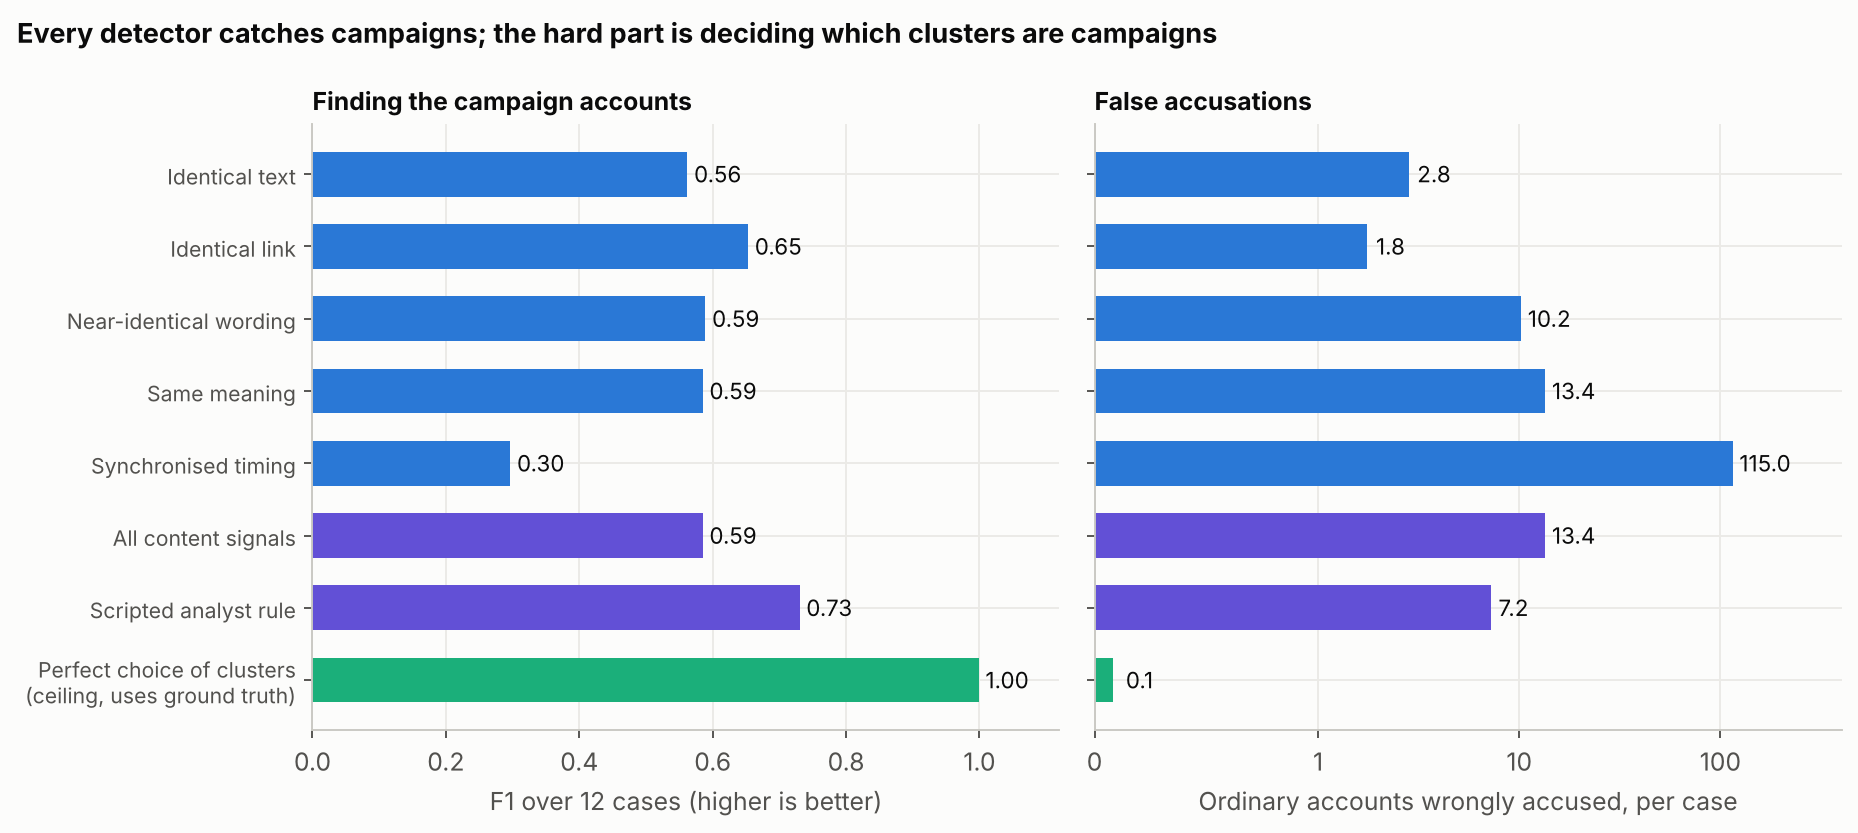
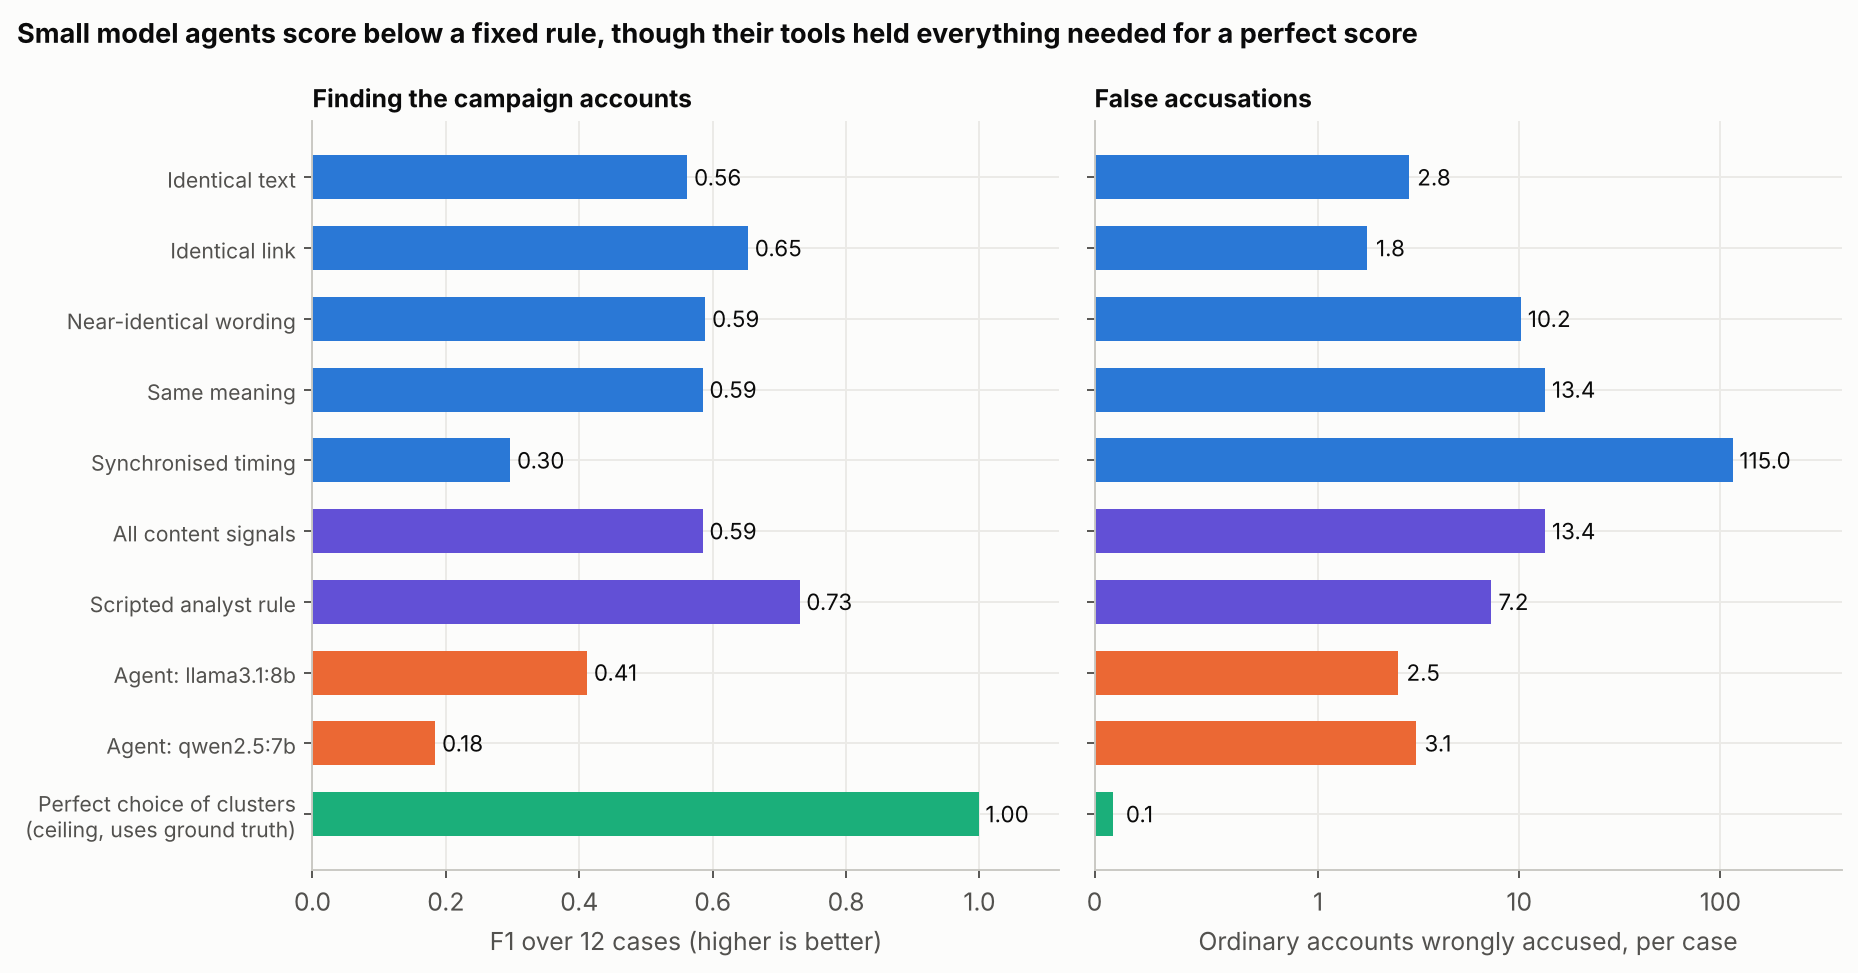
Agent results for two open models and failure-mode analysis

diff --git a/src/failure_modes.py b/src/failure_modes.py
@@ -1,0 +1,43 @@
+"""How the agents went wrong: reads results/agent_*.csv and results/trace_*.jsonl."""
+import os, glob, json
+import pandas as pd
+from config import RES
+
+
+def signals_consulted(trace):
+    out = set()
+    for t in trace:
+        s = (t.get("args") or {}).get("signal") if isinstance(t.get("args"), dict) else None
+        if s:
+            out.add(s)
+    return out
+
+
+def main():
+    rows = []
+    for f in sorted(glob.glob(os.path.join(RES, "agent_*.csv"))):
+        a = pd.read_csv(f)
+        model = a.model.iloc[0].split(":", 1)[-1]
+        tag = os.path.basename(f)[len("agent_"):-4]
+        traces = {json.loads(l)["case"]: json.loads(l) for l in open(os.path.join(RES, f"trace_{tag}.jsonl"))}
+        used = {c: signals_consulted(t["trace"]) for c, t in traces.items()}
+        q, cp, ai, mx = (a[a.kind == k] for k in ("quiet", "copy-paste", "ai-rewrite", "mixed"))
+        rows.append({
+            "model": model,
+            "mean F1": round(a.f1.mean(), 2),
+            "runs that ran out of turns without a report": f"{(~a.finished).sum()} of {len(a)}",
+            "no-campaign cases where it accused someone": f"{(q.flagged > 0).sum()} of {len(q)}",
+            "ordinary accounts accused per no-campaign case": round(q.false_accusations.mean(), 1),
+            "runs that ever consulted the 'same meaning' signal": f"{sum('same_meaning' in used[c] for c in a.case)} of {len(a)}",
+            "AI-rewritten campaigns found (of 6: 3 alone, 3 in mixed cases)": int(
+                (ai.true_positives >= 10).sum() + (mx.true_positives >= 30).sum()),
+            "mixed cases where both campaigns were found": f"{(mx.missed < 10).sum()} of {len(mx)}",
+            "mean turns used": round(a.steps.mean(), 1),
+        })
+    out = pd.DataFrame(rows).set_index("model").T
+    out.to_csv(os.path.join(RES, "failure_modes.csv"))
+    print(out.to_string())
+
+
+if __name__ == "__main__":
+    main()

diff --git a/src/figures.py b/src/figures.py
@@ -59,7 +59,7 @@ def fig_overview():
     axes[1].set_xlabel("Ordinary accounts wrongly accused, per case")
     axes[1].set_title("False accusations", fontsize=10.5)
     axes[0].set_yticks(y, labels, fontsize=9); axes[0].invert_yaxis()
-    fig.suptitle("Every detector catches campaigns; the hard part is deciding which clusters are campaigns",
+    fig.suptitle("Small model agents score below a fixed rule, though their tools held everything needed for a perfect score",
                  x=0.01, ha="left", fontweight="bold", fontsize=11.5)
     fig.tight_layout()
     save(fig, "fig1_overview.png")

diff --git a/README.md b/README.md
@@ -43,6 +43,37 @@ one or two hidden campaigns. Without any language model:
 
 ![By kind of case](figures/fig2_by_kind.png)
 
+## Finding 2: small open-model agents do worse than a fixed rule
+
+Two open models (Qwen 2.5 7B and Llama 3.1 8B, run locally with Ollama, temperature 0, 15
+turns per case) investigated all 12 cases with the same tools.
+
+| | Llama 3.1 8B | Qwen 2.5 7B | Scripted rule |
+|---|---|---|---|
+| F1 (mean of 12 cases) | 0.41 | 0.18 | 0.73 |
+| Ordinary accounts accused per case | 2.5 | 3.1 | 7.2 |
+| Campaign accounts missed per case | 10.3 | 15.3 | 0 |
+
+Accusing fewer people is not caution; it comes from finding less. The traces
+(`results/trace_*.jsonl`, summarised in `results/failure_modes.csv`) show four failure modes:
+
+- **They always find something.** In all 6 runs on cases with no campaign, the agent accused
+  someone (5 ordinary accounts per case on average), usually the first small cluster it saw,
+  with a confident explanation such as "they all post exact copies of each other's posts".
+- **They search where the light is.** Llama never once consulted the "same meaning" signal,
+  the only one that exposes AI-rewritten campaigns; Qwen used it in 3 of 12 runs. Of six
+  AI-rewritten campaigns, each model found one.
+- **They stop at the first campaign.** In none of the 6 mixed-case runs did an agent find
+  both campaigns; each reported the copy-paste campaign and stopped.
+- **They run out of time.** 7 of 24 runs used all 15 turns on inspecting individual accounts
+  and never filed a report, including Qwen on all three copy-paste cases, the easiest in the
+  set.
+
+The judgement gap from Finding 1 is real: these agents had every piece of evidence needed
+for a perfect score in their tool outputs, and did not use it. Stronger models, a longer turn
+budget, or an explicit checklist ("consult every signal; a case may have no campaign") are the
+obvious next experiments; the code runs any OpenAI-compatible model unchanged.
+
 ## The agent
 
 `src/agent.py`. The agent receives a short brief (find coordinated accounts; ordinary people
@@ -63,8 +94,8 @@ what to run and what to believe. Each run records the full trace of actions and 
 explanation (`results/trace_*.jsonl`), so every accusation can be audited back to the evidence
 the agent saw.
 
-Measured for each model: F1, false accusations, missed accounts, steps used, which signals it
-consulted, and whether it cited clusters it never looked at.
+Measured for each model: F1, false accusations, missed accounts, turns used, which signals it
+consulted, and whether it filed a report at all.
 
 ## Cases
 
@@ -112,8 +143,8 @@ and pass `--provider` and `--model`.
   comparisons between models.
 - **The oracle is a ceiling, not a method.** It shows what perfect cluster-level judgement
   would achieve with these detectors.
-- **Small open models.** The agent design is model-agnostic; stronger hosted models may do
-  better at the same task.
+- **Two small open models, one prompt.** Larger hosted models, or a different brief, may
+  behave very differently; the results describe these models with this design.
 
 ## Credits
 
